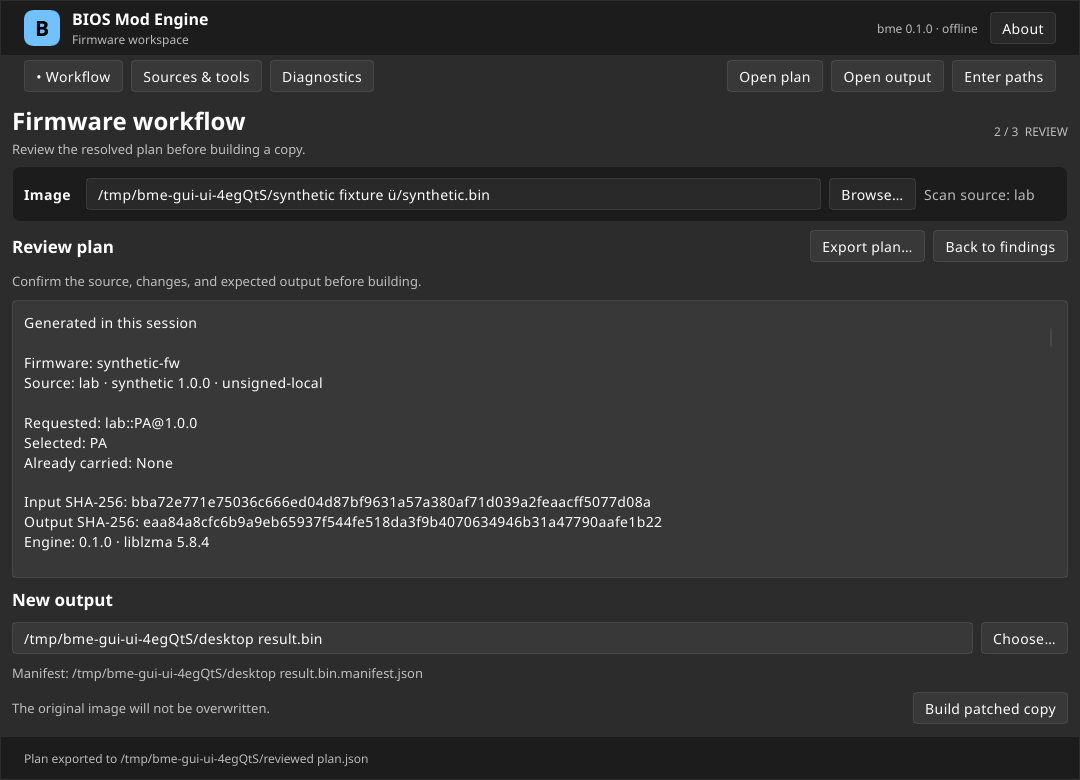
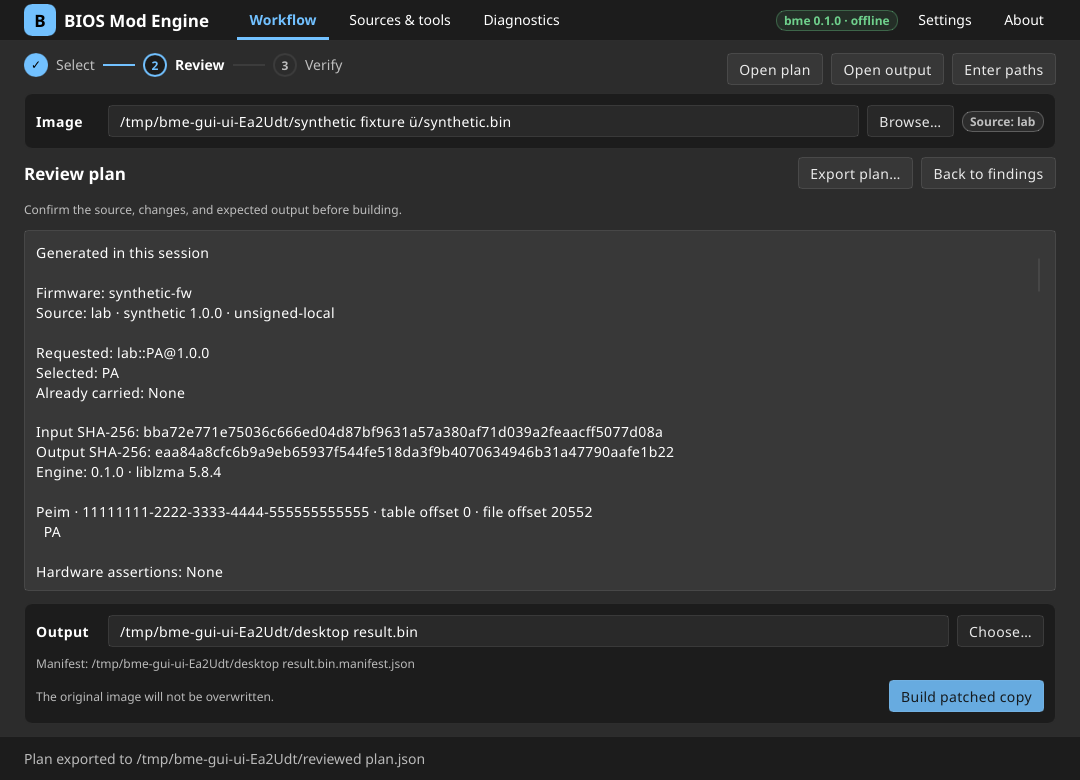
docs(gui): refresh screenshots and describe finding selection
Regenerate the light and dark captures from the polished interface at 1080x780, name the click and Space or Enter selection of findings, and record the native render check of every page at both sizes.

diff --git a/docs/guide/gui.md b/docs/guide/gui.md
@@ -36,7 +36,7 @@ The project's code is MIT. The desktop distribution uses the Slint Royalty-free 
 ## Inspect, plan and verify
 
 1. Choose an image or enter its path, then inspect it. Choose a catalog source and scan. A board profile identifies catalog information, not the revision or components of a physical board.
-2. Select independently plannable corrections or use **Recommended** to ask the engine for its recommendation. Rows needing hardware assertions, a hold or diagnostic policy, or joint prerequisite selection cannot be selected in this workflow. A missing detection does not prove a defect is absent.
+2. Select independently plannable corrections by clicking a finding or pressing Space or Enter on it, or use **Recommended** to ask the engine for its recommendation. Rows needing hardware assertions, a hold or diagnostic policy, or joint prerequisite selection cannot be selected in this workflow. A missing detection does not prove a defect is absent.
 3. Generate and review the plan, including source pin, input and expected output digests, selected patches, component offsets, policy flags and notes. Changing an input invalidates the review.
 4. Choose a new output path and build the patched copy. The paired `<output>.manifest.json` path is shown before publication. Existing files are not overwritten. A publication failure may leave artifacts; inspect the reported paths instead of deleting them automatically.
 5. The GUI independently verifies the output using the input, reviewed plan and manifest. It reports completion only when all required checks succeed. An incomplete verification is not a verified result; address the reported missing prerequisites and retry.
@@ -69,4 +69,4 @@ When independent verification cannot finish, the CLI reports `VERIFICATION_INCOM
 
 The real synthetic workflow passed through the controller and through the Slint event loop, including plan export and automatic independent verification. Output bytes and manifest semantics match an equivalent CLI run. Native runs on Ubuntu 26.04/GNOME passed with Wayland software rendering in light and dark themes, Wayland accelerated rendering, and X11 software rendering through XWayland. These are separate from a native Xorg desktop qualification.
 
-Headless callback tests cover enablement, input invalidation, imported plans, publication recovery, cancellation/closure and export. Native AT-SPI inspection found the primary controls and their accessible labels. That check does not establish a complete screen-reader or keyboard-only workflow. Layouts were rendered at 1080×780 and 760×600. Vendor-ROM tests were skipped because no `BME_ROM_*` inputs were configured; no hardware boot test was performed.
+Headless callback tests cover enablement, input invalidation, imported plans, publication recovery, cancellation/closure and export. Native AT-SPI inspection found the primary controls and their accessible labels. That check does not establish a complete screen-reader or keyboard-only workflow. Layouts were rendered at 1080×780 and 760×600. After the interface polish, native Wayland software-rendered captures at both sizes in light and dark themes covered every page on the same Ubuntu 26.04/GNOME host; no other desktop was rechecked. Vendor-ROM tests were skipped because no `BME_ROM_*` inputs were configured; no hardware boot test was performed.
